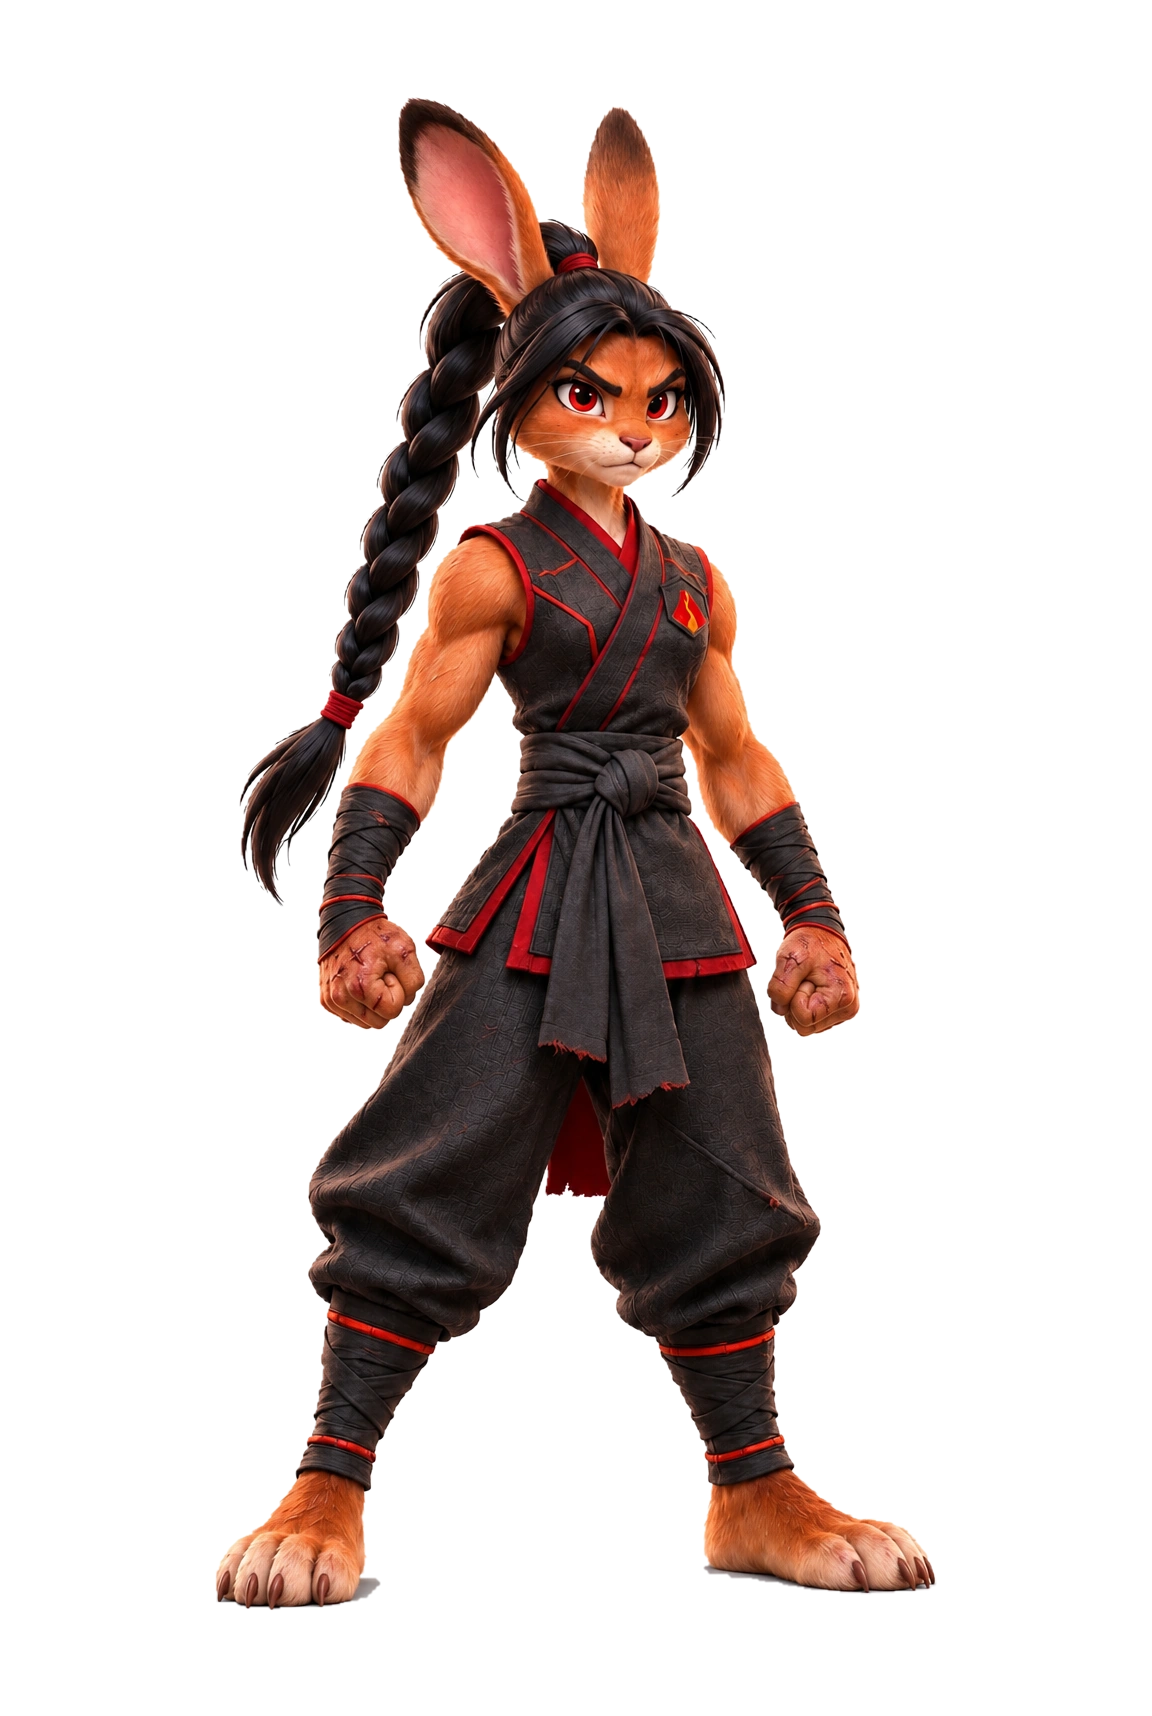
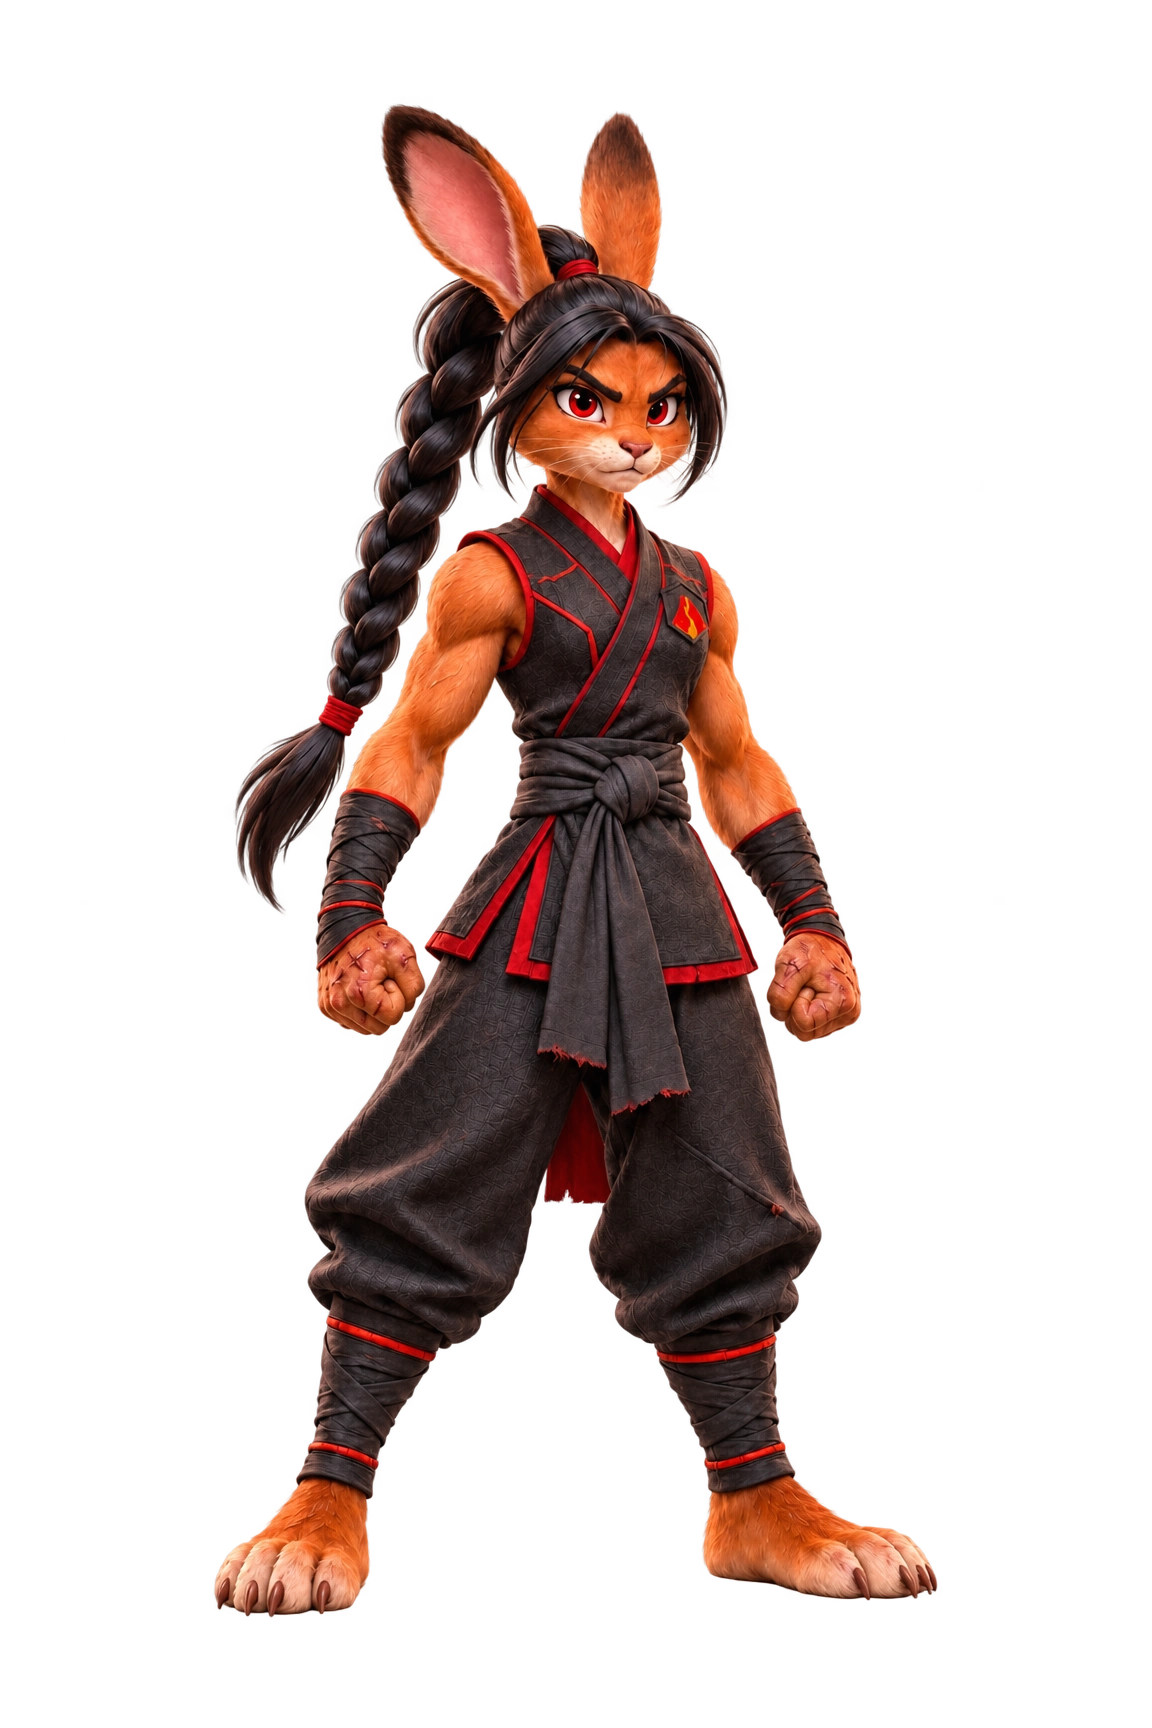
Replace Yōgan portrait with latest approved transparent full-body artwork

diff --git a/index.html b/index.html
@@ -586,7 +586,7 @@
             </div>
           </article>
           <article class="character world-character-card kazan-character-card" id="kazan-yogan" hidden>
-            <div class="character-media kazan-character-media"><img loading="lazy" decoding="async" src="world-characters/dojo-kazan/yogan-portrait-cutout.webp?v=20261119-yogan1" width="1152" height="1716" alt="Yōgan, the orange-furred female rabbit fighter of Dojo Kazan, with a long black braid, red eyes, powerful scarred fists, and a dark charcoal training uniform with red volcanic flame insignia."></div>
+            <div class="character-media kazan-character-media"><img loading="lazy" decoding="async" src="world-characters/dojo-kazan/yogan-portrait-cutout.webp?v=20261119-yogan2" width="1152" height="1728" alt="Yōgan, the orange-furred female rabbit fighter of Dojo Kazan, with a long black braid, red eyes, powerful scarred fists, and a dark charcoal training uniform with red volcanic flame insignia."></div>
             <div class="character-body">
               <div class="character-role kazan-role">Student · Dojo Kazan</div>
               <h3>Yōgan</h3>
@@ -735,9 +735,9 @@
       quote: "",
       description: "Yōgan is a rabbit fighter of Dojo Kazan with orange fur, natural rabbit ears, red eyes, a long black braid and a determined expression. She has a slightly muscular build and healed, restrained scars on her knuckles from harsh training. Her face is free of scars, and she wears the dojo's charcoal-black and red uniform with its flame insignia. Her background has not yet been specified.",
       traits: "Determination · Strength · Discipline",
-      image: "world-characters/dojo-kazan/yogan-portrait-cutout.webp?v=20261119-yogan1",
+      image: "world-characters/dojo-kazan/yogan-portrait-cutout.webp?v=20261119-yogan2",
       alt: "Yōgan, the orange-furred female rabbit fighter of Dojo Kazan, with a long black braid, red eyes, powerful scarred fists, and a dark charcoal training uniform with red volcanic flame insignia.",
-      variants: [{label: "Official Full-Body Portrait", image: "world-characters/dojo-kazan/yogan-portrait-cutout.webp?v=20261119-yogan1", alt: "Yōgan, the orange-furred female rabbit fighter of Dojo Kazan, with a long black braid, red eyes, powerful scarred fists, and a dark charcoal training uniform with red volcanic flame insignia."}]
+      variants: [{label: "Official Full-Body Portrait", image: "world-characters/dojo-kazan/yogan-portrait-cutout.webp?v=20261119-yogan2", alt: "Yōgan, the orange-furred female rabbit fighter of Dojo Kazan, with a long black braid, red eyes, powerful scarred fists, and a dark charcoal training uniform with red volcanic flame insignia."}]
     },
     kazanIwao: {
       title: "Iwao",
